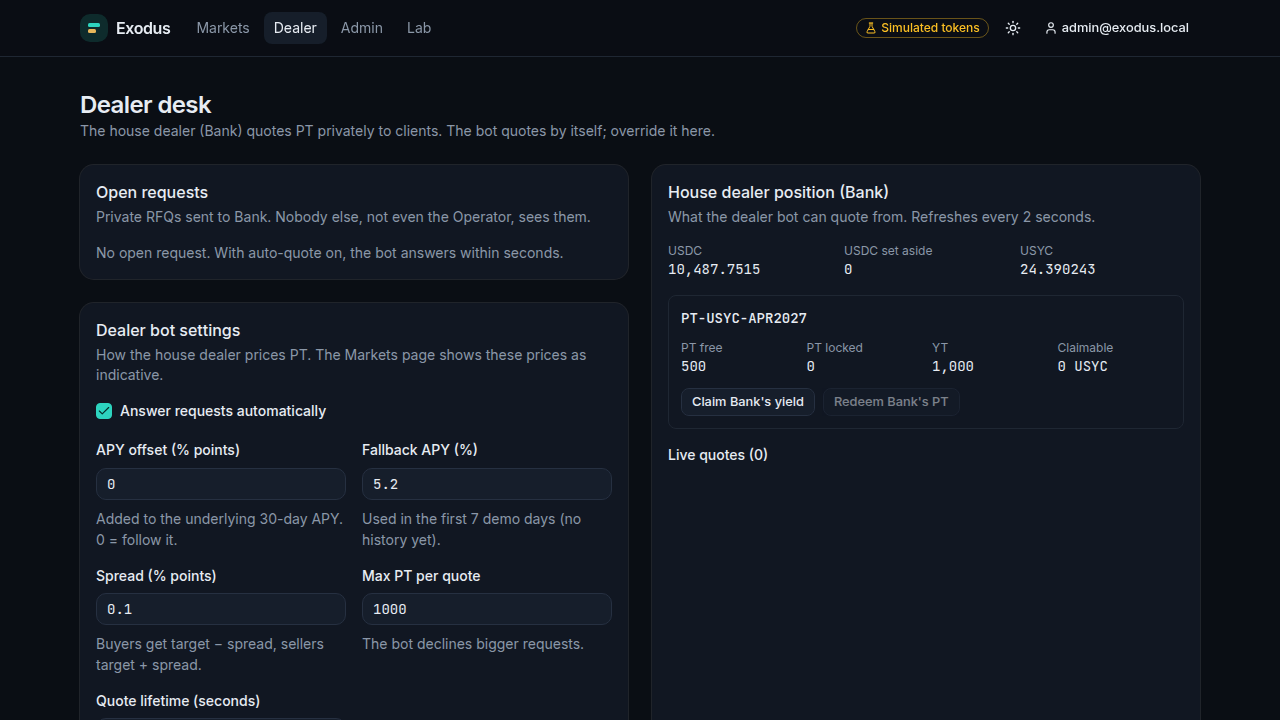
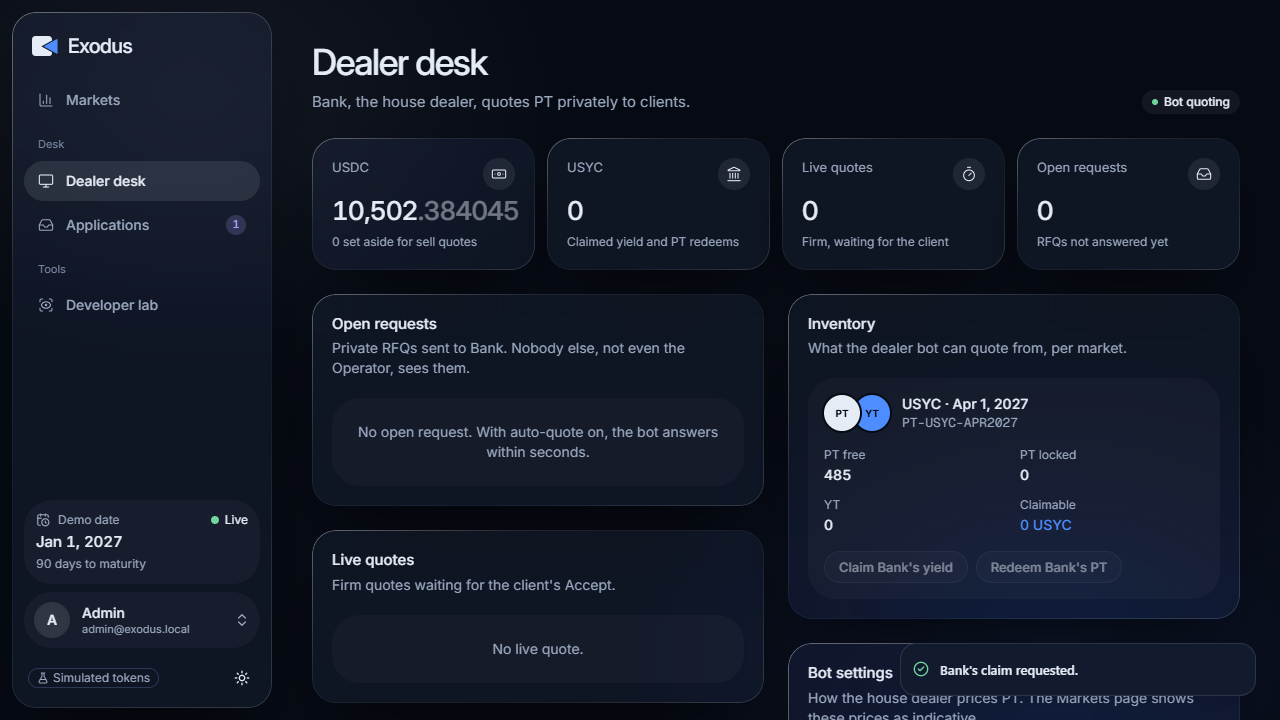
docs: refresh the README screenshots with the demo recorder
The Phase 9 screenshots showed the screens before the Glacier redesign.
The demo recorder (docs/demo/record-demo.mjs) now runs on the new UI and
retook them: markets, the private firm quote, the Operator seeing 0 Quote
in the lab, the portfolio and the dealer desk.

Recorder changes:
- Two selectors follow the new screens: the amount box is labelled
  "You buy", and the firm quote is found by its region name "Firm quote"
  (then scrolled into view: the trade widget is taller than 720 px).
- File URLs become paths with fileURLToPath, so the recorder also runs on
  Windows (URL.pathname gave "/C:/...", read by Node as "C:\C:\...").

Also updates the Wallet screenshot's description and removes market.png,
which duplicated quote.png.

diff --git a/README.md b/README.md
@@ -31,7 +31,7 @@ PTs trade through **private RFQ** with **atomic delivery versus payment**: only 
 
 The **Wallet**, the simulated USYC on-ramp (faucet, subscribe, redeem, send):
 
-![The /app wallet: USYC price, 30-day APY, demo date, price chart, subscribe panel, faucet, holdings, send form and activity](docs/images/dashboard.png)
+![The /app wallet: wallet value, USYC, USDC and the fund's 30-day APY, the USYC price chart, Subscribe / Redeem, holdings with a Send button per token, the test USDC faucet and the activity read from the ledger](docs/images/dashboard.png)
 
 ## Why Canton
 
